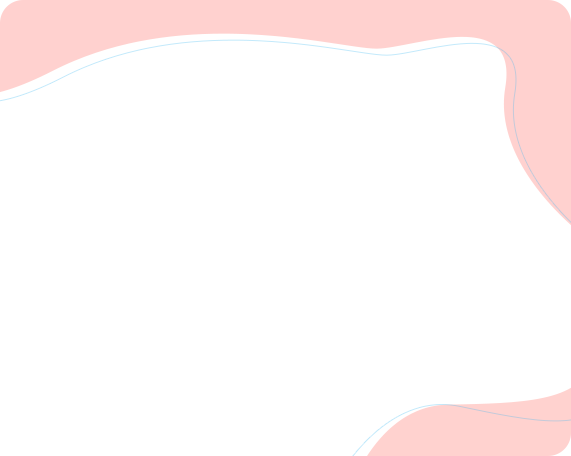
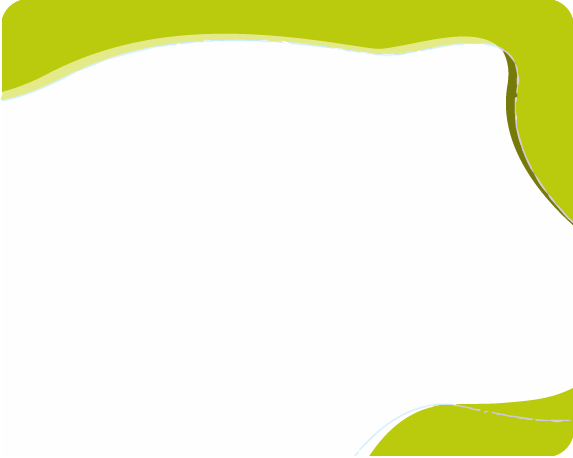
1 commit
Implementada primera parte de PMT y CONTACTO

Changed region(s): [[0.0, 0.0, 1.0, 0.4912], [0.6252, 0.8289, 1.0, 1.0]]

diff --git a/index.html b/index.html
@@ -441,10 +441,10 @@ https://templatemo.com/tm-565-onix-digital
                     <li class="active">
                       <div>
                         <div class="thumb">
-                          <iframe width="100%" height="auto" src="https://www.youtube.com/embed/JynGuQx4a1Y" title="YouTube video player" frameborder="0" allow="accelerometer; autoplay; clipboard-write; encrypted-media; gyroscope; picture-in-picture" allowfullscreen></iframe>
+                          <iframe width="100%" height="auto" src="https://www.youtube.com/embed/1JeLV55isW0" title="YouTube video player" frameborder="0" allow="accelerometer; autoplay; clipboard-write; encrypted-media; gyroscope; picture-in-picture" allowfullscreen></iframe>
                           <div class="overlay-effect">
-                            <a href="#"><h4>Project One</h4></a>
-                            <span>SEO &amp; Marketing</span>
+                            <a href="#"><h4>PMT</h4></a>
+                            <span>¿Qué es?</span>
                           </div>
                         </div>
                       </div>
@@ -452,10 +452,10 @@ https://templatemo.com/tm-565-onix-digital
                     <li>
                       <div>
                         <div class="thumb">
-                          <iframe width="100%" height="auto" src="https://www.youtube.com/embed/RdJBSFpcO4M" title="YouTube video player" frameborder="0" allow="accelerometer; autoplay; clipboard-write; encrypted-media; gyroscope; picture-in-picture" allowfullscreen></iframe>
+                          <iframe width="100%" height="auto" src="https://www.youtube.com/embed/ux-u50XW7Yg" title="YouTube video player" frameborder="0" allow="accelerometer; autoplay; clipboard-write; encrypted-media; gyroscope; picture-in-picture" allowfullscreen></iframe>
                           <div class="overlay-effect">
-                            <a href="#"><h4>Second Project</h4></a>
-                            <span>Advertising &amp; Marketing</span>
+                            <a href="#"><h4>Contenido</h4></a>
+                            <span>Contenido del PMT</span>
                           </div>
                         </div>
                       </div>
@@ -463,10 +463,10 @@ https://templatemo.com/tm-565-onix-digital
                     <li>
                       <div>
                         <div class="thumb">
-                          <iframe width="100%" height="auto" src="https://www.youtube.com/embed/ZlfAjbQiL78" title="YouTube video player" frameborder="0" allow="accelerometer; autoplay; clipboard-write; encrypted-media; gyroscope; picture-in-picture" allowfullscreen></iframe>
+                          <iframe width="100%" height="auto" src="https://www.youtube.com/embed/QPAx2ZhrC6E" title="YouTube video player" frameborder="0" allow="accelerometer; autoplay; clipboard-write; encrypted-media; gyroscope; picture-in-picture" allowfullscreen></iframe>
                           <div class="overlay-effect">
-                            <a href="#"><h4>Project Three</h4></a>
-                            <span>Digital &amp; Marketing</span>
+                            <a href="#"><h4>Conceptos Técnicos</h4></a>
+                            <span>Conceptos Técnicos 17 y 18</span>
                           </div>
                         </div>
                       </div>
@@ -474,10 +474,10 @@ https://templatemo.com/tm-565-onix-digital
                     <li>
                       <div>
                         <div class="thumb">
-                          <iframe width="100%" height="auto" src="https://www.youtube.com/embed/mx1WseE7-0Y" title="YouTube video player" frameborder="0" allow="accelerometer; autoplay; clipboard-write; encrypted-media; gyroscope; picture-in-picture" allowfullscreen></iframe>
+                          <iframe width="100%" height="auto" src="https://www.youtube.com/embed/86XiTp3sjpE" title="YouTube video player" frameborder="0" allow="accelerometer; autoplay; clipboard-write; encrypted-media; gyroscope; picture-in-picture" allowfullscreen></iframe>
                           <div class="overlay-effect">
-                            <a href="#"><h4>Fourth Project</h4></a>
-                            <span>SEO &amp; Advertising</span>
+                            <a href="#"><h4>Entrevista</h4></a>
+                            <span>¿Qué es un plan de manejo de trafico? (PMT)</span>
                           </div>
                         </div>
                       </div>
@@ -490,8 +490,8 @@ https://templatemo.com/tm-565-onix-digital
                       <div class="thumb">
                         <img src="assets/images/video-thumb-01.png" alt="">
                         <div class="inner-content">
-                          <h4>Project One</h4>
-                          <span>SEO &amp; Marketing</span>
+                          <h4>PMT</h4>
+                          <span>¿Qué es?</span>
                         </div>
                       </div>
                     </div>
@@ -499,8 +499,8 @@ https://templatemo.com/tm-565-onix-digital
                       <div class="thumb">
                         <img src="assets/images/video-thumb-02.png" alt="">
                         <div class="inner-content">
-                          <h4>Second Project</h4>
-                          <span>Advertising &amp; Marketing</span>
+                          <h4>Contenido</h4>
+                          <span>Contenido del PMT</span>
                         </div>
                       </div>
                     </div>
@@ -508,8 +508,8 @@ https://templatemo.com/tm-565-onix-digital
                       <div class="thumb">
                         <img src="assets/images/video-thumb-03.png" alt="Marketing">
                         <div class="inner-content">
-                          <h4>Project Three</h4>
-                          <span>Digital &amp; Marketing</span>
+                          <h4>Conceptos Técnicos</h4>
+                          <span>Conceptos Técnicos 17 y 18</span>
                         </div>
                       </div>
                     </div>
@@ -517,8 +517,8 @@ https://templatemo.com/tm-565-onix-digital
                       <div class="thumb">
                         <img src="assets/images/video-thumb-04.png" alt="SEO Work">
                         <div class="inner-content">
-                          <h4>Fourth Project</h4>
-                          <span>SEO &amp; Advertising</span>
+                          <h4>Entrevista</h4>
+                          <span>¿Qué es un plan de manejo de trafico? (PMT)</span>
                         </div>
                       </div>
                     </div>
@@ -537,13 +537,13 @@ https://templatemo.com/tm-565-onix-digital
       <div class="row">
         <div class="col-lg-7">
           <div class="section-heading">
-            <h2>Feel free to <em>Contact</em> us via the <span>HTML form</span></h2>
+            <h2> Para<em> contactarnos</em> por favor completa el siguiente <span>formulario</span></h2>
             <div id="map">
-              <iframe src="https://maps.google.com/maps?q=Av.+L%C3%BAcio+Costa,+Rio+de+Janeiro+-+RJ,+Brazil&t=&z=13&ie=UTF8&iwloc=&output=embed" width="100%" height="360px" frameborder="0" style="border:0" allowfullscreen=""></iframe>
+              <iframe src="https://www.google.com/maps/embed?pb=!1m18!1m12!1m3!1d254508.39280769113!2d-74.24789509678372!3d4.648625940456258!2m3!1f0!2f0!3f0!3m2!1i1024!2i768!4f13.1!3m3!1m2!1s0x8e3f9bfd2da6cb29%3A0x239d635520a33914!2zQm9nb3TDoQ!5e0!3m2!1ses!2sco!4v1628102159214!5m2!1ses!2sco" width="600" height="360" style="border:0;" allowfullscreen="" loading="lazy"></iframe>
             </div>
             <div class="info">
-              <span><i class="fa fa-phone"></i> <a href="#">010-020-0340<br>090-080-0760</a></span>
-              <span><i class="fa fa-envelope"></i> <a href="#">info@company.com<br>mail@company.com</a></span>
+              <span><i class="fa fa-phone"></i> <a href="#">85839344<br>76767565</a></span>
+              <span><i class="fa fa-envelope"></i> <a href="#">promovit@promovit.com<br>atencionalcliente@promovit.com</a></span>
             </div>
           </div>
         </div>
@@ -552,27 +552,27 @@ https://templatemo.com/tm-565-onix-digital
             <div class="row">
               <div class="col-lg-12">
                 <fieldset>
-                  <input type="name" name="name" id="name" placeholder="Name" autocomplete="on" required>
+                  <input type="name" name="name" id="name" placeholder="Nombre" autocomplete="on" required>
                 </fieldset>
               </div>
               <div class="col-lg-12">
                 <fieldset>
-                  <input type="surname" name="surname" id="surname" placeholder="Surname" autocomplete="on" required>
+                  <input type="surname" name="surname" id="surname" placeholder="Apellido" autocomplete="on" required>
                 </fieldset>
               </div>
               <div class="col-lg-12">
                 <fieldset>
-                  <input type="text" name="email" id="email" pattern="[^ @]*@[^ @]*" placeholder="Your Email" required="">
+                  <input type="text" name="email" id="email" pattern="[^ @]*@[^ @]*" placeholder="Email" required="">
                 </fieldset>
               </div>
               <div class="col-lg-12">
                 <fieldset>
-                  <input type="text" name="website" id="website" placeholder="Your Website URL" required="">
+                  <input type="text" name="website" id="website" placeholder="Telefono" required="">
                 </fieldset>
               </div>
               <div class="col-lg-12">
                 <fieldset>
-                  <button type="submit" id="form-submit" class="main-button">Submit Request</button>
+                  <button type="submit" id="form-submit" class="main-button">Enviar</button>
                 </fieldset>
               </div>
             </div>

diff --git a/assets/css/templatemo-onix-digital.css b/assets/css/templatemo-onix-digital.css
@@ -1586,8 +1586,8 @@ Video
 }
 
 .our-videos .nacc .thumb .overlay-effect {
-  background: rgb(255,104,95);
-  background: linear-gradient(105deg, rgba(255,104,95,1) 0%, rgba(255,144,104,1) 100%);
+  background:#BACA0C;
+  background: #BACA0C;
   display: inline-block;
   position: absolute;
   left: 0;
@@ -1616,8 +1616,8 @@ Video
 }
 
 .our-videos .menu .thumb .inner-content {
-  background: rgb(255,104,95);
-  background: linear-gradient(105deg, rgba(255,104,95,1) 0%, rgba(255,144,104,1) 100%);
+  background: #BACA0C;
+  background: #BACA0C;
   border-top-left-radius: 23px;
   border-bottom-right-radius: 23px;
   position: absolute;
